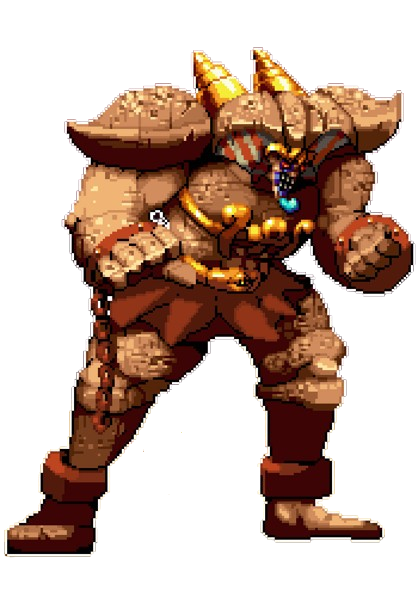
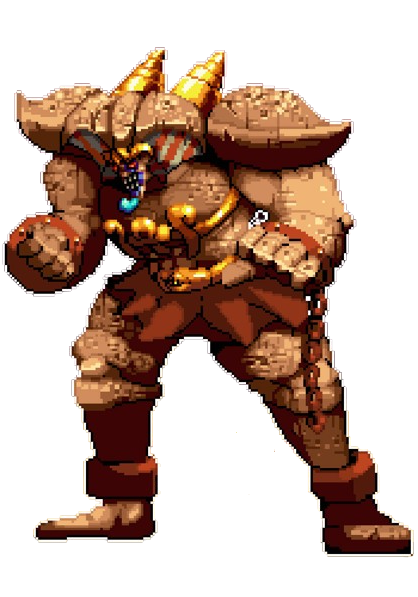
<refactor>[Ennemi]:<horizontal rotation of images>

diff --git a/Project/Assets/Code/Inventory.cs b/Project/Assets/Code/Inventory.cs
@@ -1,7 +1,20 @@
 using System.Collections.Generic;
 using UnityEngine;
-public class Inventory : MonoBehaviour{
+public class Inventory : MonoBehaviour
+{
     public static Inventory main;
-    public Dictionary<string,int> items = new();
+    public Dictionary<string, int> items = new();
     public void Awake() => Inventory.main = this;
+    public void SubtractItems(Item item)
+    {
+        if (!items.ContainsKey(item.name) || items[item.name] > item.price){ return; }
+            
+        items[item.name] -= item.price;
+        if (items[item.name] <= 0) { items.Remove(item.name); }
+    }
+    public void AddItems(Item item)
+    {
+        items.Add(item.name,1);
+    }
 }
+

diff --git a/Project/Assets/Code/Items.cs b/Project/Assets/Code/Items.cs
@@ -11,6 +11,7 @@ public class Item{
     public string name;
     public Sprite sprite;
     public float value;
+    public int price;
     public string description;
     public void Use(string tag) {
         var member = Team.main.members.First();
